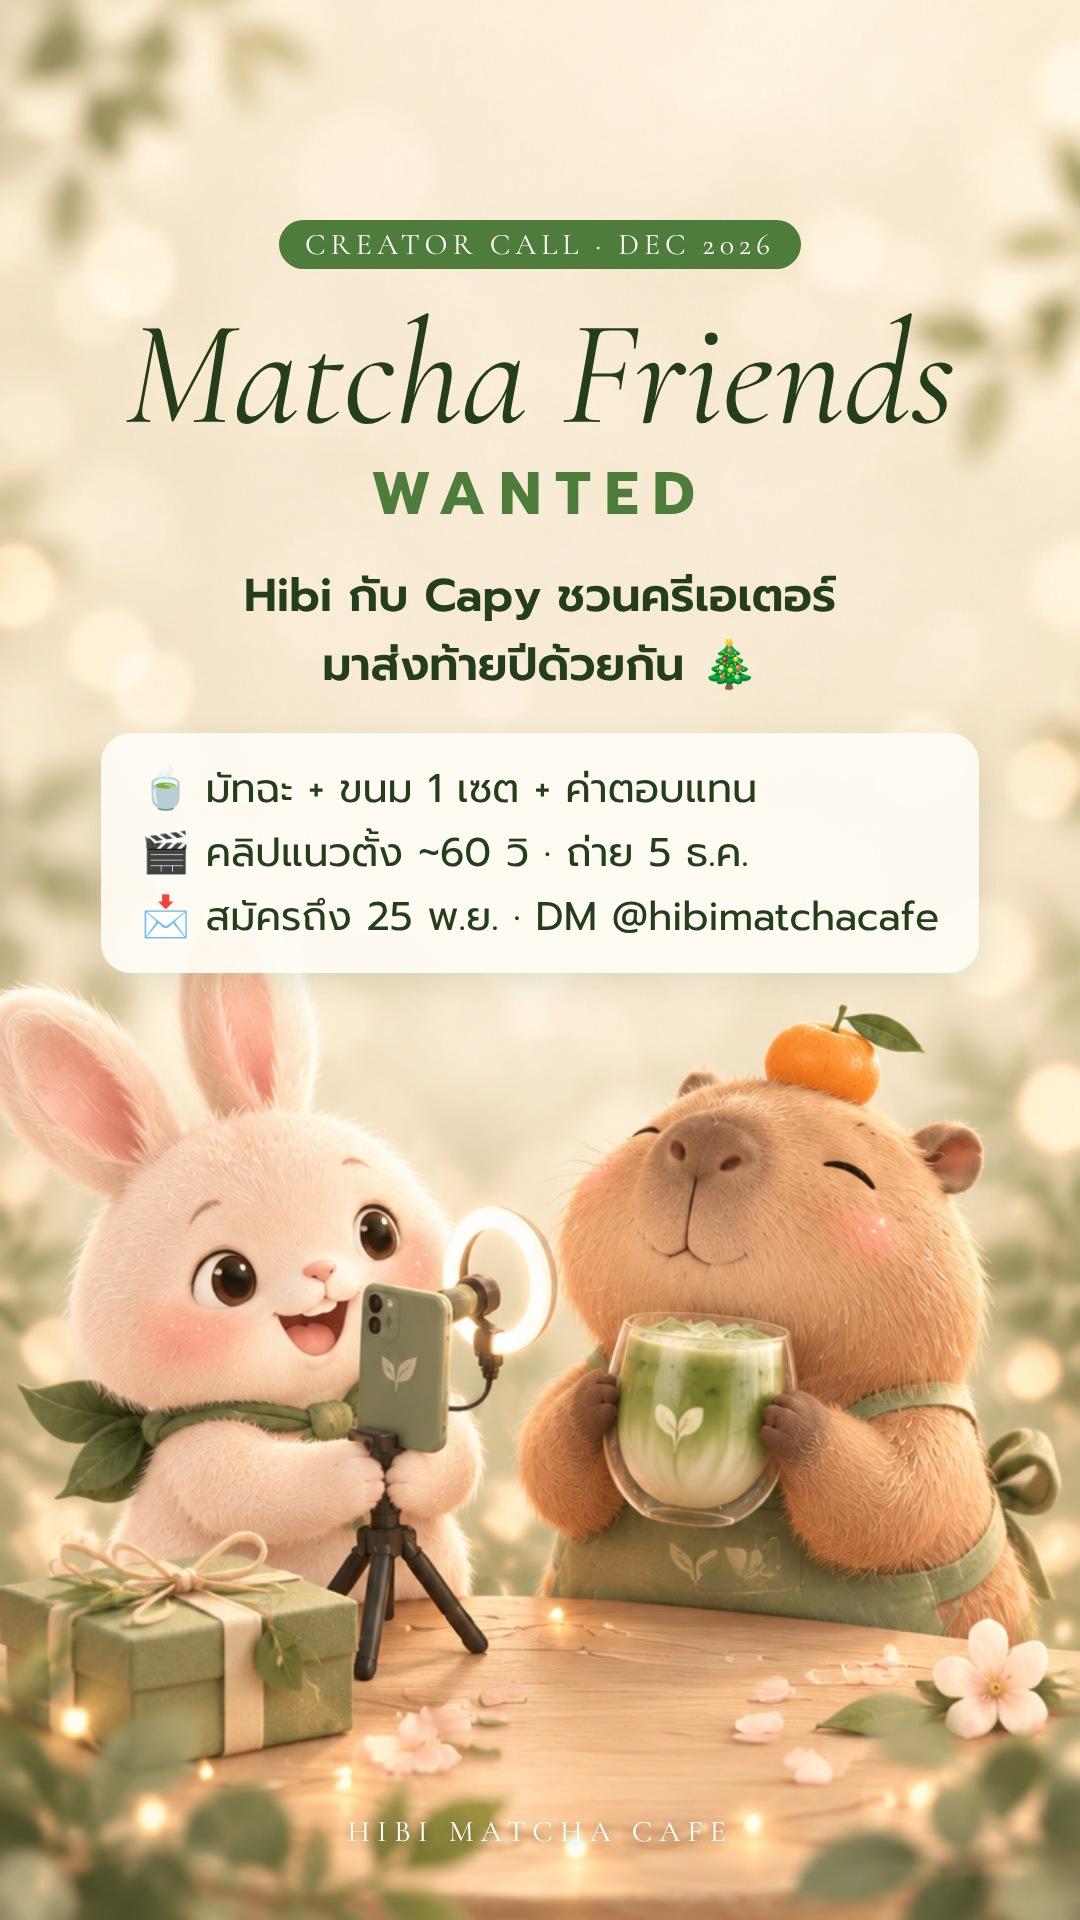
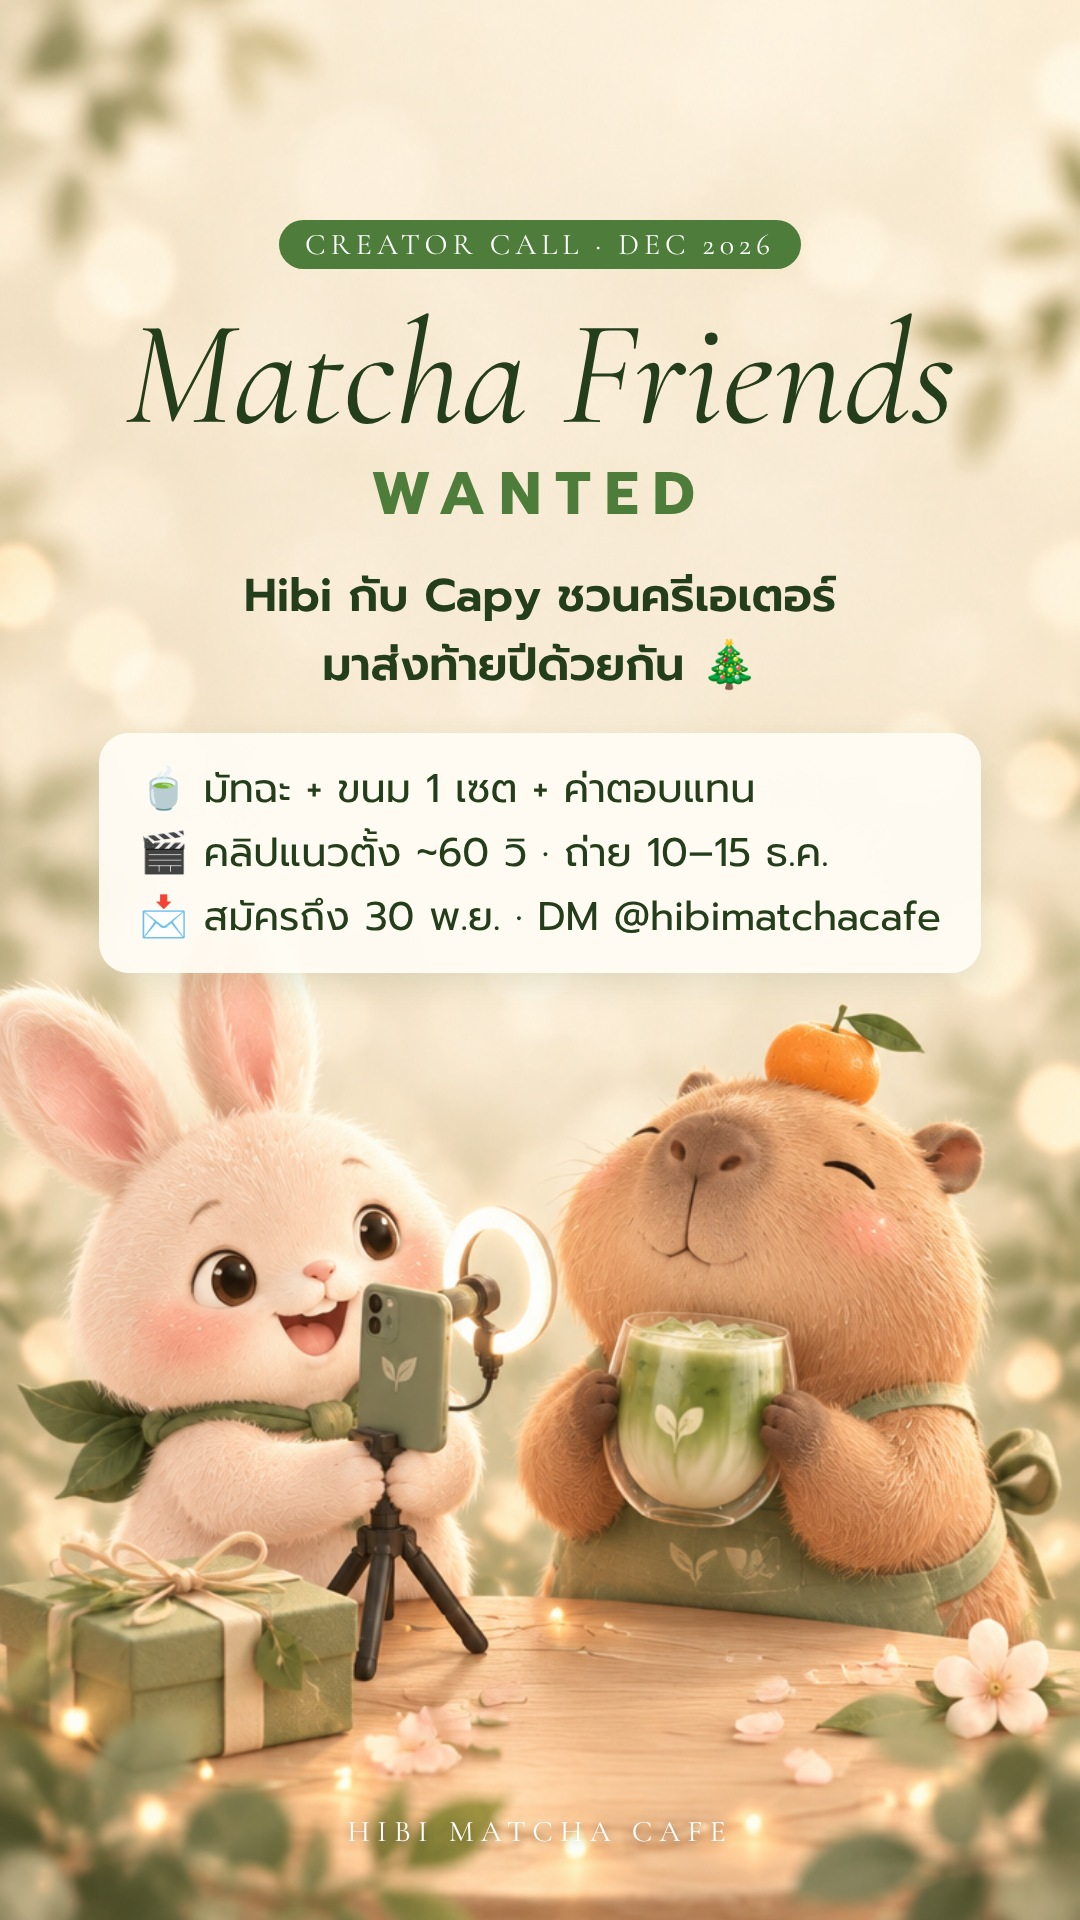
Update KOL dates: apply by 30 Nov, shoot 10-15 Dec
Claude-Session: https://claude.ai/code/session_019v9CAxCxqD3EqyHWdLwpMA

Changed region(s): [[0.1222, 0.4062, 0.4889, 0.5], [0.4889, 0.4062, 0.8556, 0.5]]

diff --git a/docs/content-plan/campaigns/kol-recruit-dec26/src/build.py b/docs/content-plan/campaigns/kol-recruit-dec26/src/build.py
@@ -54,7 +54,7 @@ page("kol_03_apply",1080,1350,"bg3.png",f'''
  <div class="small" style="margin-top:12px">*เราดูความเข้ากันของสไตล์คอนเทนต์ ไม่ใช่แค่ยอดผู้ติดตาม</div></div>
 <div class="card" style="position:absolute;left:470px;right:60px;top:790px;padding:28px 34px">
  <h2 style="font-size:38px">🗓 ไทม์ไลน์</h2>
- <div style="font-size:28px;line-height:1.6;margin-top:6px">ส่งใบสมัครถึง <b>25 พ.ย.</b><br>แจ้งผลภายใน <b>30 พ.ย.</b><br>ถ่ายทำ <b>5 ธ.ค. 69</b></div>
+ <div style="font-size:28px;line-height:1.6;margin-top:6px">ส่งใบสมัครถึง <b>30 พ.ย.</b><br>แจ้งผลภายใน <b>5 ธ.ค.</b><br>ถ่ายทำ <b>10–15 ธ.ค. 69</b></div>
  <div style="margin-top:16px;padding-top:14px;border-top:2px dashed #dfe8d2;font-size:28px;line-height:1.5"><b>📩 สมัคร:</b> DM / คอมเมนต์<br>ชื่อ + ลิงก์ช่อง · ยอดผู้ติดตาม<br>+ คลิปที่ภูมิใจที่สุด 1 คลิป</div></div>''')
 # story 9:16
 page("kol_story",1080,1920,"bg_story.png",'''
@@ -64,7 +64,7 @@ page("kol_story",1080,1920,"bg_story.png",'''
  <div style="font-weight:700;font-size:60px;letter-spacing:14px;color:#4e7c3a">WANTED</div>
  <div style="font-weight:600;font-size:46px;margin-top:22px">Hibi กับ Capy ชวนครีเอเตอร์<br>มาส่งท้ายปีด้วยกัน 🎄</div>
  <div class="card" style="display:inline-block;margin-top:34px;padding:24px 40px;text-align:left;font-size:40px;line-height:1.6">
-  🍵 มัทฉะ + ขนม 1 เซต + ค่าตอบแทน<br>🎬 คลิปแนวตั้ง ~60 วิ · ถ่าย 5 ธ.ค.<br>📩 สมัครถึง 25 พ.ย. · DM @hibimatchacafe</div>
+  🍵 มัทฉะ + ขนม 1 เซต + ค่าตอบแทน<br>🎬 คลิปแนวตั้ง ~60 วิ · ถ่าย 10–15 ธ.ค.<br>📩 สมัครถึง 30 พ.ย. · DM @hibimatchacafe</div>
 </div>
 <div class="brand" style="left:0;right:0;text-align:center;bottom:70px;color:#fff;text-shadow:0 2px 10px rgba(0,0,0,.35)">HIBI MATCHA CAFE</div>''')
 print("ok")

diff --git a/docs/content-plan/campaigns/kol-recruit-dec26/README.md b/docs/content-plan/campaigns/kol-recruit-dec26/README.md
@@ -28,7 +28,7 @@ Macro (250K–500K) · [2,500.-]
 *เราดูความเข้ากันของสไตล์คอนเทนต์ ไม่ใช่แค่ยอดผู้ติดตาม
 
 🗓 ไทม์ไลน์
-ส่งใบสมัครได้ถึง 25 พ.ย. 69 → แจ้งผลภายใน 30 พ.ย. 69 → ถ่ายทำ [5 ธ.ค. 69]
+ส่งใบสมัครได้ถึง 30 พ.ย. 69 → แจ้งผลภายใน [5 ธ.ค. 69] → ถ่ายทำช่วง 10–15 ธ.ค. 69
 
 📩 สมัครยังไง
 DM มาที่ IG @hibimatchacafe หรือคอมเมนต์ใต้โพสต์นี้ บอกเรา 3 อย่าง
@@ -49,7 +49,8 @@ Hibi กับ Capy รอเจอนะ 🐰🍊
 - **คำว่า “ของฝาก”:** ไม่ใช้ เพราะ Hibi ยังไม่ได้ยืนยันว่ามีชุดของฝาก
 
 ## ⚠ เช็กก่อนโพสต์ (ค่าใน [ ] = ต้องยืนยัน)
-- [ ] **วันถ่ายทำ:** ต้นฉบับเขียนไม่ตรงกัน (5 ธ.ค. กับ 10 ธ.ค.) → ใส่ 5 ธ.ค. ไว้ก่อน
+- [x] **วันสมัคร/ถ่ายทำ (ยืนยัน 18 พ.ย.):** สมัครถึง 30 พ.ย. · ถ่ายช่วง 10–15 ธ.ค.
+- [ ] **วันแจ้งผล:** ใส่ 5 ธ.ค. ไว้ (ร้านยังไม่ได้กำหนด)
 - [ ] **งบ KOL:** ตัวเลขยกมาจากต้นฉบับ ต้องให้ร้านยืนยันงบของ Hibi
 - [ ] **DM ของ IG:** เช็กว่าเปิดรับข้อความจากคนที่ไม่ได้ติดตามแล้ว
 - [ ] **เซตเครื่องดื่ม + ขนม:** เป็นเมนูอะไร
@@ -62,4 +63,4 @@ Hibi กับ Capy รอเจอนะ 🐰🍊
 - ภาพพื้นหลัง: Higgsfield gpt_image_2_5 อ้างอิงชีตทางการ (`art/`)
   - jobs: bg1 90afaad7 · bg2 d9a69a07 · bg3 ec1ca3bc · story 298e6cec
 - ตัวหนังสือวางทับด้วย HTML (`src/build.py`) · ฟอนต์ Prompt + Cormorant Garamond
-- ⚠ ในภาพใส่ตัวเลขค่าตอบแทนและวันถ่าย 5 ธ.ค. ไว้แล้ว ถ้าร้านเปลี่ยน ให้แก้ใน `src/build.py` แล้วรันใหม่
+- ⚠ ในภาพใส่ตัวเลขค่าตอบแทน · สมัครถึง 30 พ.ย. · แจ้งผล 5 ธ.ค. · ถ่าย 10–15 ธ.ค. ไว้แล้ว ถ้าร้านเปลี่ยน ให้แก้ใน `src/build.py` แล้วรันใหม่
